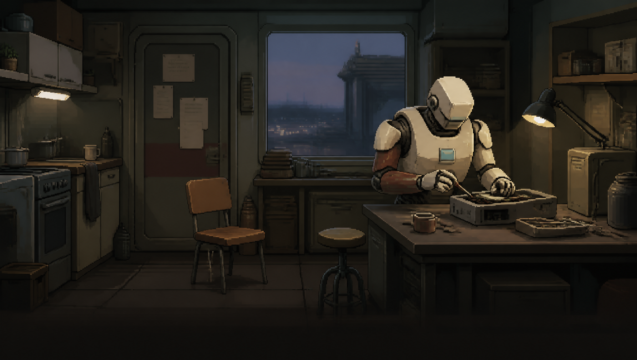
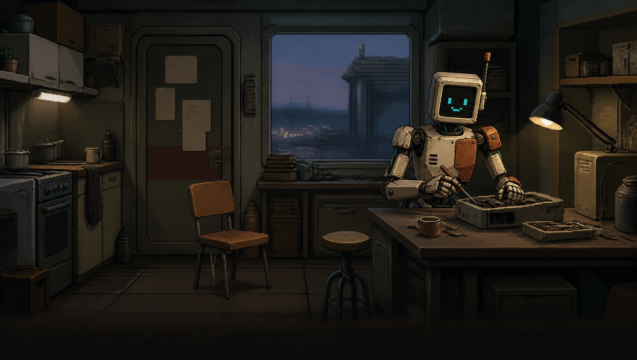
Match home Latch identity and record played Pistol review

diff --git a/docs/evidence/pistol-and-latch-continuity-20261005.md b/docs/evidence/pistol-and-latch-continuity-20261005.md
@@ -1,0 +1,72 @@
+# Pistol and Latch continuity, October 5, 2026
+
+Status: implemented and inspected locally, final integration pending. This receipt
+belongs to the [first-person quality plan](../plans/first-person-weapon-quality.md)
+and [character continuity contract](../design/characters.md).
+
+## Drawn Pistol
+
+The replacement follows the accepted Shotgun workflow: a drawn idle image, then
+a firing image derived from that same idle. Both use a 241x180 full canvas,
+registered palette, hard transparency and nearest filtering. Four completed
+image requests consumed an estimated $0.410 of authorized prepaid allowance.
+No model credits were used for this replacement. Historical model sources,
+mechanical checks and the separate world pickup image remain unchanged.
+
+Focused Pistol source, weapon-view, sabotage-art and pickup checks passed with
+zero exit, clean logs and their own PASS markers. The view check uses a measured
+grip column shared by the actual idle/fire images; earlier rejected column
+attempts remain in private diagnostics. No acceptance threshold was disabled.
+
+An ordinary M01 playthrough passed the first seven canonical discovery states:
+start disarmed, fists, found Pistol, firing, exhausting finite ammunition,
+claiming another finite supply and defeating the actual Clerk. It used no
+equipment grant, teleport or health adjustment. This is a campaign prefix,
+not full mission acceptance.
+
+- Client source: `8879b5eeb4e60de699984dfc74362833fb4f6eed`.
+- Native source: `400595d06b6b268a64b0321015ae23921e597567`.
[1 lines of base64/hex data omitted]
+- Godot 4.7.2-stable, OpenGL Compatibility, Radeon 780M, 1280x720.
+- Both owned processes exited successfully and were retired.
+
+![New Pistol in the ordinary Clerk fight](../screenshots/pistol-and-latch-20261005/pistol-combat.png)
+
+![Resolved Pistol firing during discovery](../screenshots/pistol-and-latch-20261005/pistol-fire.png)
+
+## Home image
+
+The previous workshop illustration depicted an incompatible featureless robot.
+The correction uses Latch's canonical stylized reference: a tall rectangular
+screen face, friendly cyan pixel expression, one anatomical-left antenna,
+lean civilian proportions and matching unequal copper-rust repairs. The room,
+calm repair work, captions, scene order and readiness contract are preserved.
+The historical image entry and its hashes remain in the opening manifest.
+
+One completed image edit consumed an estimated $0.094 of prepaid allowance.
+The selected scene source SHA-256 is
[1 lines of base64/hex data omitted]
+
+Story-scene, scene-player and campaign-opening checks passed with zero exit,
+clean logs and owning PASS markers. The ordinary HOME scene was inspected at
+1280x720, 1024x768 and 2560x1080. All render processes were retired. Audio was
+muted for these captures; they establish no new listening verdict.
+
+![Corrected Latch in the ordinary home story screen](../screenshots/pistol-and-latch-20261005/home.png)
+
+The [capture receipt](../screenshots/pistol-and-latch-20261005/receipt.json)
+records the hashes of these literal, unedited renderer screenshots.
+
+## Remaining acceptance
+
+Cross-weapon review must compare palms, fingers, wrists, sleeve material and
+registration at the same actual HUD size, including firing, bob and aspect
+ratios. Canvas dimensions alone do not prove matching hand proportions.
+The Sniper glove style and enlarged Shiv hand need separate corrections.
+
+Named crew and provisional civilian presentation remain separate cast work.
+This home correction approves no other portrait, generic strip or finished
+character animation. The 190 asset and construction-kit briefs have been
+audited for design, references, integration and credit requirements; that is
+planning coverage, not 190 completed assets. Final combined CI, packages and
+main promotion remain separate from these local visual receipts.

diff --git a/docs/plans/first-person-weapon-quality.md b/docs/plans/first-person-weapon-quality.md
@@ -8,8 +8,10 @@ art rung in the [Full build order](../ROADMAP.md#full-build-order).
 The subsequent explicit direction is to use the Shotgun's successful drawn
 first-person image workflow. Flat sprites are acceptable. The Pistol's model
 reconstruction and live-3D presentation experiment are stopped. The current
-replacement is a new coherent drawn idle/fire pair, with ordinary played and
-final integration acceptance still required. Existing world models and
+replacement is a new coherent drawn idle/fire pair. A seven-state ordinary
+discovery and combat prefix has passed; final integration acceptance remains
+required. The [dated receipt](../evidence/pistol-and-latch-continuity-20261005.md)
+includes literal gameplay captures and the corrected home scene. Existing world models and
 mechanical source receipts are retained separately.
 
 ## Observed problem
@@ -67,11 +69,11 @@ already supports it.
    recognizable metal, wood and leather values, useful bevel highlights and
    shape normals. Keep nearest sampling and pixel clusters without globally
    crushing every material into the same dull value range.
-3. Use the reviewed five-digit glove source and purposeful local finger
-   pivots. The source is a left glove despite its request label; any right-hand
-   mirror must repair winding and normals. Fit the palm, thumb, wrist and
-   trigger finger to actual geometry. Test visible joints, grip contact and
-   moving-part clearance, then inspect the hands in motion.
+3. Match the same player's palms, finger thickness, wrist width and sleeve
+   materials across drawn weapons. Compare actual HUD-sized rest and fire
+   frames, bob and supported aspects; matching canvas dimensions alone is
+   insufficient. The retained five-digit glove source is a left glove, not a
+   finished hand rig, and does not require reviving the stopped model workflow.
 4. Compare several first-person compositions against the same live camera and
    HUD: clear aim direction, visible side planes, believable scale and a small
    amount of screen coverage. The weapon must read well at normal distance

diff --git a/docs/design/characters.md b/docs/design/characters.md
@@ -1,6 +1,6 @@
 # Character, voice and scene continuity
 
-Production contract, updated 2026-10-04. [Cast](../lore/cast.md) owns roles and the
+Production contract, updated 2026-10-05. [Cast](../lore/cast.md) owns roles and the
 visual anchors; [voice](../lore/voice.md) owns registers and recorded wording.
 The owner-provided [free-duo reference](../../client/art/characters/references/free-duo-reference.png),
 accepted 2026-10-01, anchors the look direction below. The later approved text
@@ -83,6 +83,13 @@ acceptance and wider cast refinement remain open. Their implementation does
 not approve later portraits or voices. Apply this identity to later reference
 sheets, poses and casting briefs while preserving the existing gameplay
 contracts; a shared civilian source does not establish a named person's face.
+
+The October 5 home correction uses Latch's same canonical screen, anatomical-left
+antenna, lean adult proportions and unequal repairs. Its
+[dated visual receipt](../evidence/pistol-and-latch-continuity-20261005.md) records
+the ordinary story screen at three aspect ratios. Other portraits and named
+gameplay bodies require their own identity review; this one correction does not
+approve generic crew stand-ins.
 
 The duo shows two free people, not a required player pairing or a coalition
 uniform. A selectable agent body does not automatically depict Latch, and the
